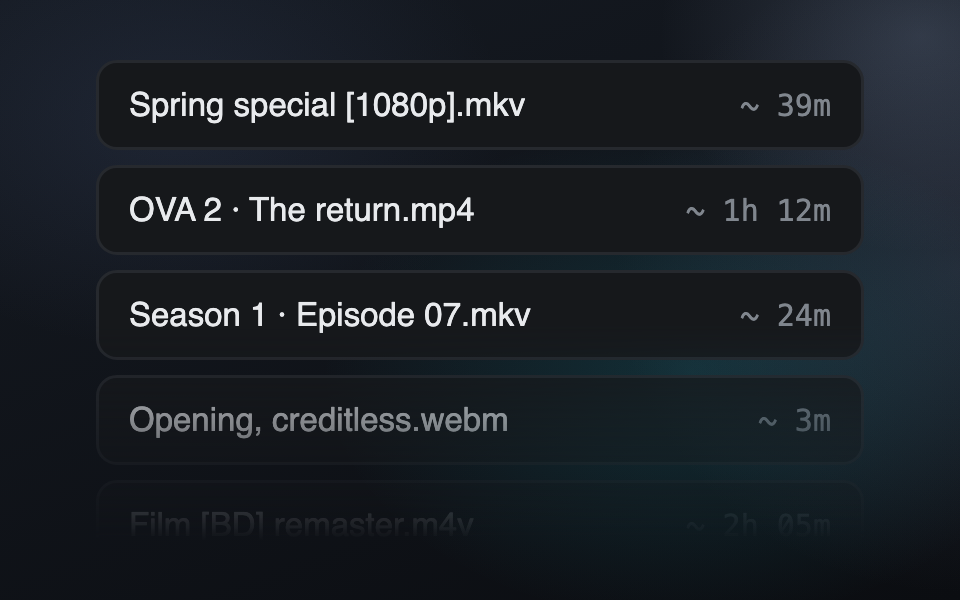
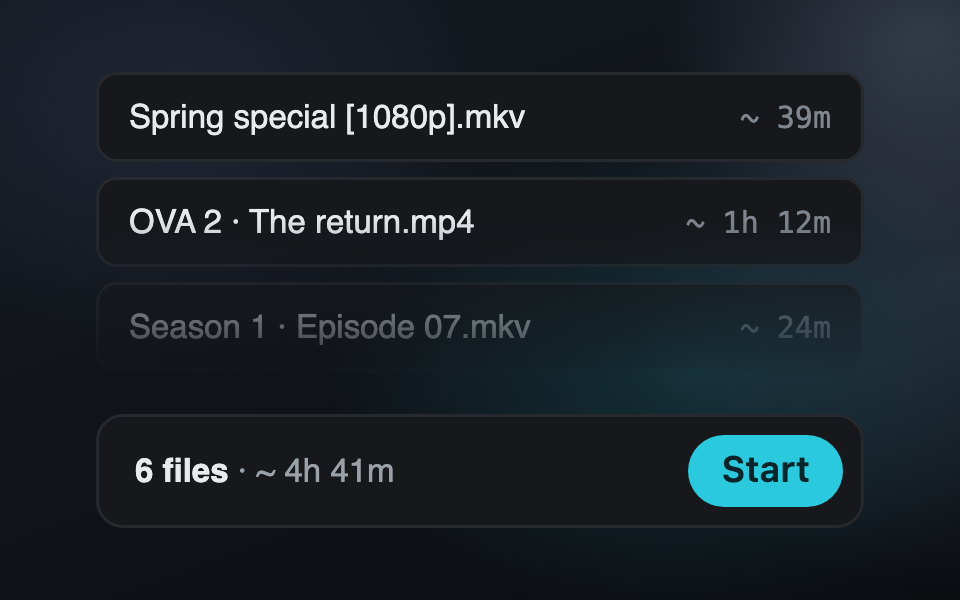
Design page rules: the long list fades under the Queue's bar

diff --git a/docs/guide/deep-dives/design.md b/docs/guide/deep-dives/design.md
@@ -212,7 +212,7 @@ Inside alerts every icon is an outline; small icons inside a line of text are fi
 ![](../img/v2/rule-7-dark.png)
 
 **Lists fade at the end**
-Long lists end with a fade, so it's clear there's more to scroll.
+Long lists fade out where they slide under a fixed bar, so it's clear there's more to scroll.
 
 </div>
 
